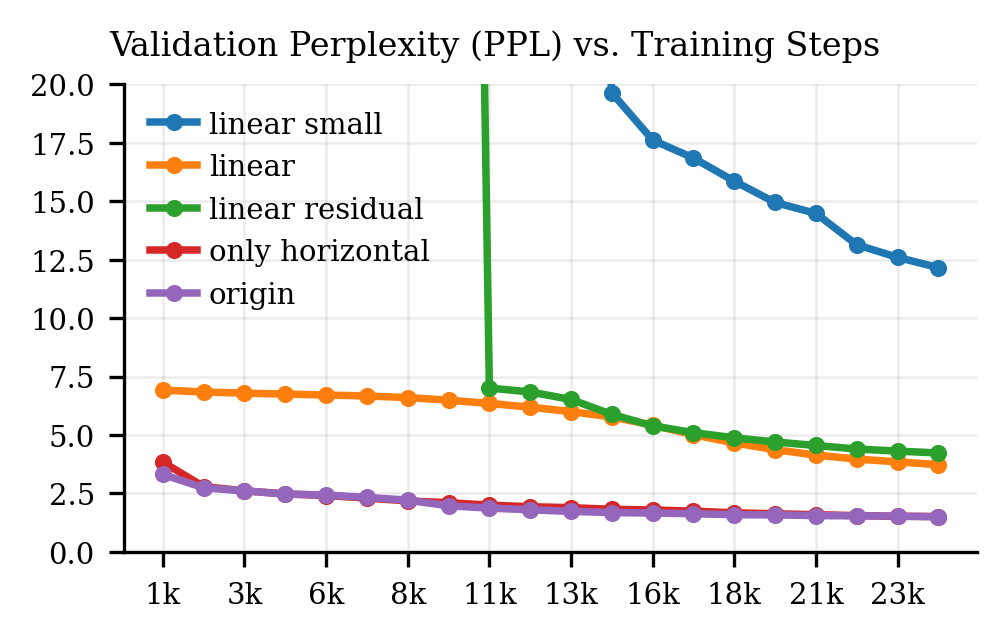
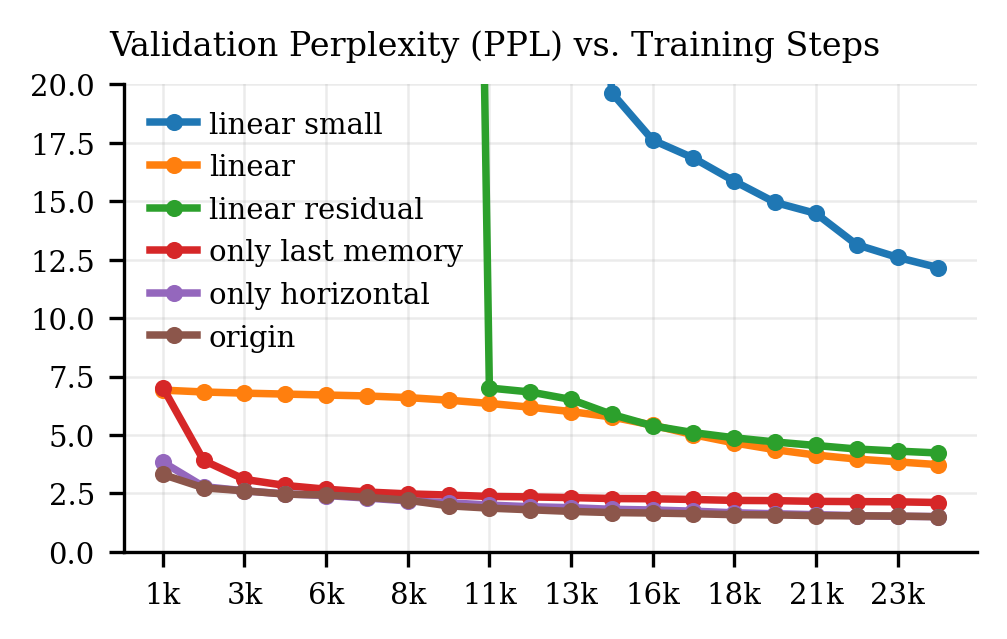
0

diff --git a/M2PTransformerAblation/M2PTransformer.md b/M2PTransformerAblation/M2PTransformer.md
@@ -7,7 +7,8 @@ We perform ablation studies comparing our M2P Transformer against alternative ar
 - Linear small: 2 layer linear layer with hidden size 8192
 - Linear: 8 layer linear layer with hidden size 8192, nearly same number of parameters as M2P Transformer
 - Linear Residual: Linear with residual connection.
+- Only Last Memory: Instead of gathering memory states from all layers, only use last layer output memory states and replicate them across all layers.
 - Only Horizontal: M2P Transformer but with 4 token transformer.
 - Origin: Origin M2P Transformer with 2 token transformer and 2 layer transformer.
 
-The results shows Transformer architectures generally performance much better than linear(projection) architectures. Origin and Only Horizontal performance similarly in the end, but Origin converges faster in early stage.
+The results shows Transformer architectures generally performance much better than linear(projection) architectures. Using only last layer memory states is worse than using all, demonstrating that aggregrate memory states from all layers is necessary. Origin and Only Horizontal performance similarly in the end, but Origin converges faster in early stage.
